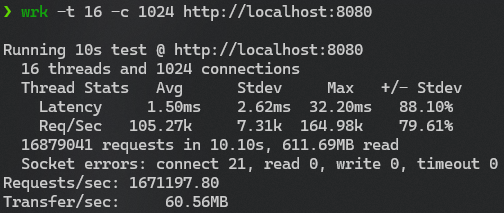
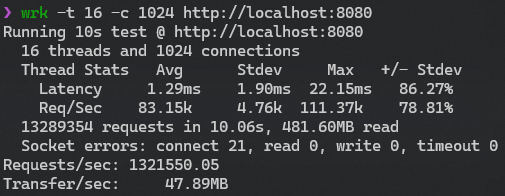
更新测试结果

Changed region(s): [[0.0, 0.0, 1.0, 0.9796], [0.0, 0.0306, 0.2083, 0.0918]]

diff --git a/README.md b/README.md
@@ -75,7 +75,7 @@ Arch WSL
 8核  
 利用[wrk](https://github.com/wg/wrk)测试
 
-RPS:167万（每秒处理的http请求数量）
+RPS:132万（每秒处理的http请求数量）
 ![image](show/test.png)
 
 RPS:25万（每秒处理的数据库查询数量）
